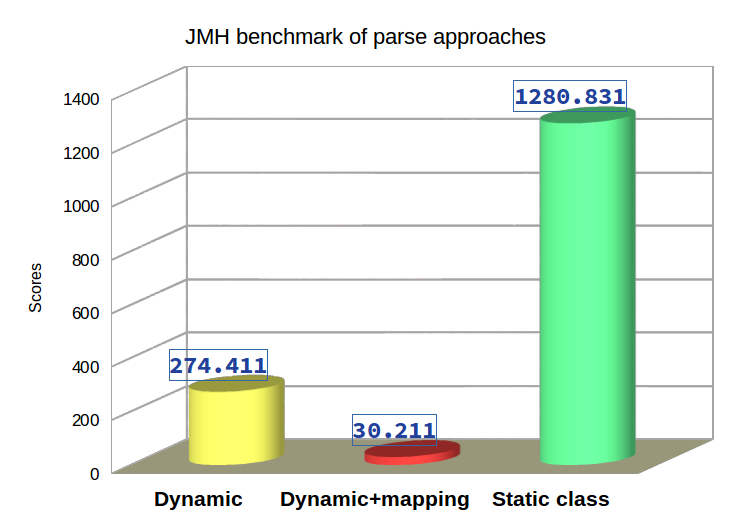
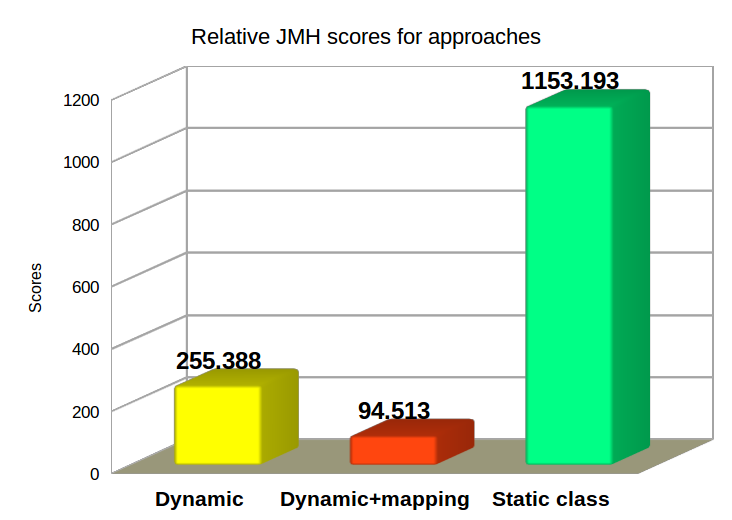
updated jmh results

diff --git a/jbbp/src/test/jmh/com/igormaznitsa/jbbp/benchmarks/JBBP_Benchmark.java b/jbbp/src/test/jmh/com/igormaznitsa/jbbp/benchmarks/JBBP_Benchmark.java
@@ -47,7 +47,7 @@ public class JBBP_Benchmark {
 
   @Benchmark
   public void measureParse_DynamicAndMapping() throws IOException {
-    parser.parse(DATA).mapTo(Data.class);
+    parser.parse(DATA).mapTo(new Data());
   }
 
   @Benchmark
@@ -75,5 +75,9 @@ public class JBBP_Benchmark {
 
     @Bin(name = "data")
     public InData[] data;
+
+    public Object newInstance(Class<?> klazz) {
+      return klazz == InData.class ? new InData() : null;
+    }
   }
 }
